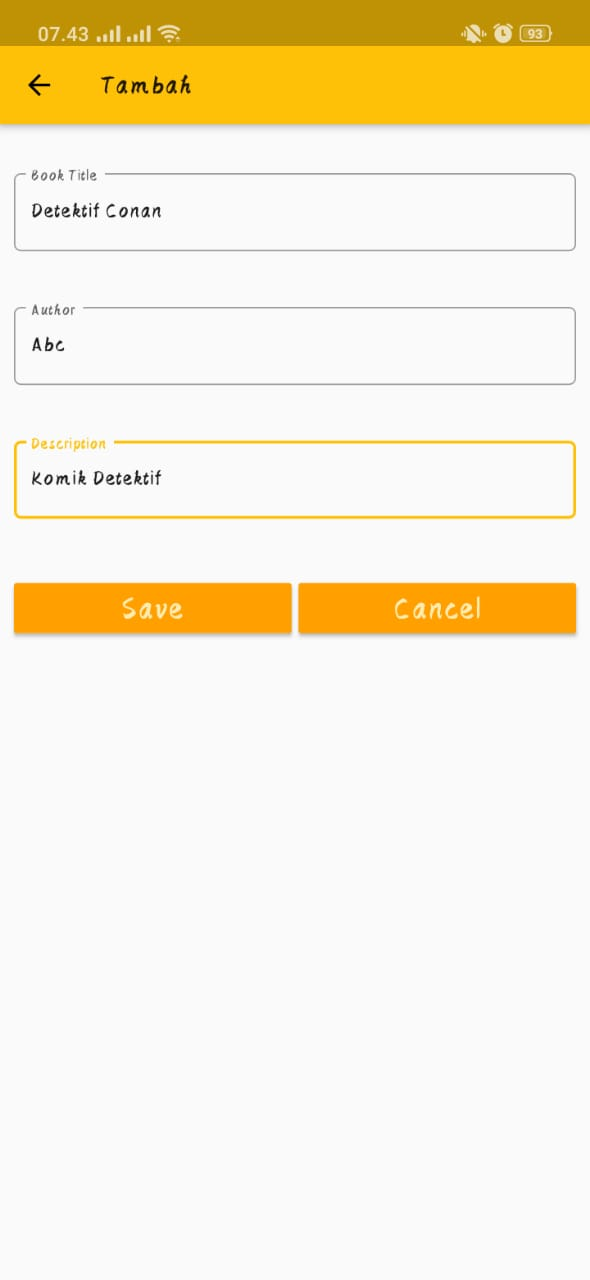
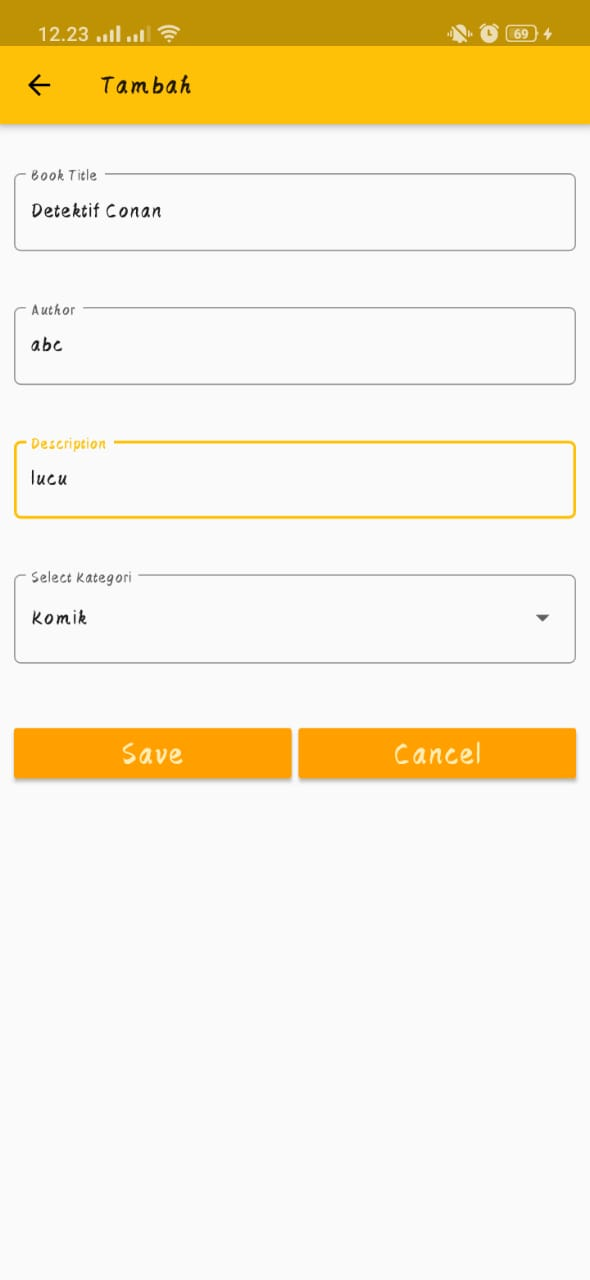
menambah dropdown kategori pada halaman book

diff --git a/lib/bookform.dart b/lib/bookform.dart
@@ -1,4 +1,7 @@
+import 'package:tugas_uts/dbhelper.dart';
 import 'package:tugas_uts/bookItem.dart';
+import 'package:tugas_uts/kategoriItem.dart';
+import 'package:sqflite/sqflite.dart';
 import 'package:flutter/cupertino.dart';
 import 'package:flutter/material.dart';
 
@@ -11,10 +14,38 @@ class BookEntryForm extends StatefulWidget {
 
 class BookEntryFormState extends State<BookEntryForm> {
   BookItem bookItem;
+  KategoriItem kategoriItem;
+  DbHelper dbHelper = DbHelper();
   BookEntryFormState(this.bookItem);
   TextEditingController titleController = TextEditingController();
   TextEditingController authorController = TextEditingController();
   TextEditingController descController = TextEditingController();
+
+  List<KategoriItem> kategoriList = List<KategoriItem>();
+  List<String> listKategori = List<String>();
+
+  int indexList = 0;
+
+  @override
+  void initState(){
+    super.initState();
+    updateListView();
+  }
+
+  void updateListView(){
+    final Future<Database> dbFuture = dbHelper.initDb();
+    dbFuture.then((database){
+      //TODO 1 Select data dari DB
+      Future<List<KategoriItem>> kategoriListFuture = dbHelper.getKategoriItemList();
+      kategoriListFuture.then((kategoriList){
+        setState((){
+          for(int i=0; i< kategoriList.length; i++) {
+            listKategori.add(kategoriList[i].name);
+          }
+        });
+      });
+    });
+  }
 
   @override
   Widget build(BuildContext context) {
@@ -84,6 +115,31 @@ class BookEntryFormState extends State<BookEntryForm> {
                 onChanged: (value) {},
               ),
             ),
+            //kategoriName form
+            Padding(
+              padding: EdgeInsets.only(top: 20.0, bottom: 20.0),
+              child: DropdownButtonFormField<String>(
+                decoration: InputDecoration(
+                  labelText: 'Select Kategori',
+                  border: OutlineInputBorder(
+                    borderRadius: BorderRadius.circular(5.0),
+                  ),
+                ),
+                value: listKategori[indexList],
+                items: listKategori.map((String value) {
+                  return DropdownMenuItem<String>(
+                    value: value,
+                    child: Text(value),
+                  );
+                }).toList(),
+                onChanged: (String value) {
+                  int i = listKategori.indexOf(value);
+                  setState(() {
+                    indexList = i;
+                  });
+                },
+              ),
+            ),
             // button
             Padding(
               padding: EdgeInsets.only(top: 20.0, bottom: 20.0),
@@ -105,12 +161,14 @@ class BookEntryFormState extends State<BookEntryForm> {
                             titleController.text,
                             authorController.text,
                             descController.text,
+                            listKategori[indexList].toString(),
                           );
                         } else {
                           // ubah data
                           bookItem.title = titleController.text;
                           bookItem.author = authorController.text;
                           bookItem.desc = descController.text;
+                          bookItem.kategoriName = listKategori[indexList].toString();
                         }
                         // kembali ke layar sebelumnya dengan membawa objek book
                         Navigator.pop(context, bookItem);

diff --git a/lib/bookItem.dart b/lib/bookItem.dart
@@ -1,16 +1,13 @@
 class BookItem{
   //instansiasi atribut yang dibutuhkan
   int _id;
-  int _kategoriId;
   String _title;
   String _author;
   String _desc;
-
+  String _kategoriName;
 
   //membuat setter dan getter
   int get id => this._id;
-
-  get kategoriId => this._kategoriId;
 
   get title => this._title;
   set title( value) => this._title = value;
@@ -21,26 +18,29 @@ class BookItem{
   String get desc => this._desc;
   set desc(String value) => this._desc = value;
 
+  String get kategoriName => this._kategoriName;
+  set kategoriName(String value) => this._kategoriName = value;
+
   //konstruktor versi 1
-  BookItem(this._title, this._author, this._desc);
+  BookItem(this._title, this._author, this._desc, this._kategoriName);
 
   //konstruktor versi 2 : konversi dari Map ke Book
   BookItem.fromMap(Map<String, dynamic>map){
     this._id = map['id'];
-    this._kategoriId = map['kategoriId'];
     this._title = map['title'];
     this._author = map['author'];
     this._desc = map['desc'];
+    this._kategoriName = map['kategoriName'];
   }
 
   //konversi book ke map
   Map<String, dynamic> toMap(){
     Map<String, dynamic> map = Map<String, dynamic>();
     map['id'] = this._id;
-    map['kategoriId'] = this._kategoriId;
     map['title'] = title;
     map['author'] = author;
     map['desc'] = desc;
+    map['kategoriName'] = kategoriName;
     return map; //digunakan untuk menampilkan item buku di list
   }
 }

diff --git a/lib/dbhelper.dart b/lib/dbhelper.dart
@@ -25,19 +25,20 @@ class DbHelper {
   // untuk membuat tabel pada database
   void _createDb(Database db, int version) async {
     var batchTemp = db.batch();
+    batchTemp.execute('DROP TABLE IF EXISTS kategoriItem');
+    batchTemp.execute('DROP TABLE IF EXISTS bookItem');
     //membuat tabel kategoriItem
-    await batchTemp.execute('''CREATE TABLE kategoriItem (
+    batchTemp.execute('''CREATE TABLE kategoriItem (
           id INTEGER PRIMARY KEY AUTOINCREMENT,
           name TEXT)''');
     //membuat tabel bookItem
-    await batchTemp.execute('''CREATE TABLE bookItem(
+    batchTemp.execute('''CREATE TABLE bookItem(
           id INTEGER PRIMARY KEY AUTOINCREMENT, 
           title TEXT, 
           author TEXT,
           desc TEXT,
-          kategoriId INTEGER, 
-          FOREIGN KEY (kategoriId) REFERENCES kategoriItem(id))''');
-    batchTemp.commit();
+          kategoriName TEXT)''');
+    await batchTemp.commit();
   }
 
   //select data tabel kategoriItem

diff --git a/lib/book.dart b/lib/book.dart
@@ -25,9 +25,6 @@ class BookState extends State<Book> {
 
   @override
   Widget build(BuildContext context) {
-    if (itemList == null) {
-      itemList = List<BookItem>();
-    }
     return Scaffold(
       appBar: AppBar(
         title: Text('Book'), //title pada appBar
@@ -87,6 +84,10 @@ class BookState extends State<Book> {
             title: Text(
               this.itemList[index].title, //digunakan untuk menampilkan title di list
               style: textStyle,
+            ),
+            subtitle: Text(
+              this.itemList[index].kategoriName,
+              style: TextStyle(fontSize: 15, fontWeight: FontWeight.w700),
             ),
             // widget yang akan ditampilkan setelah title/disebelah kanan title
             trailing: Row(
